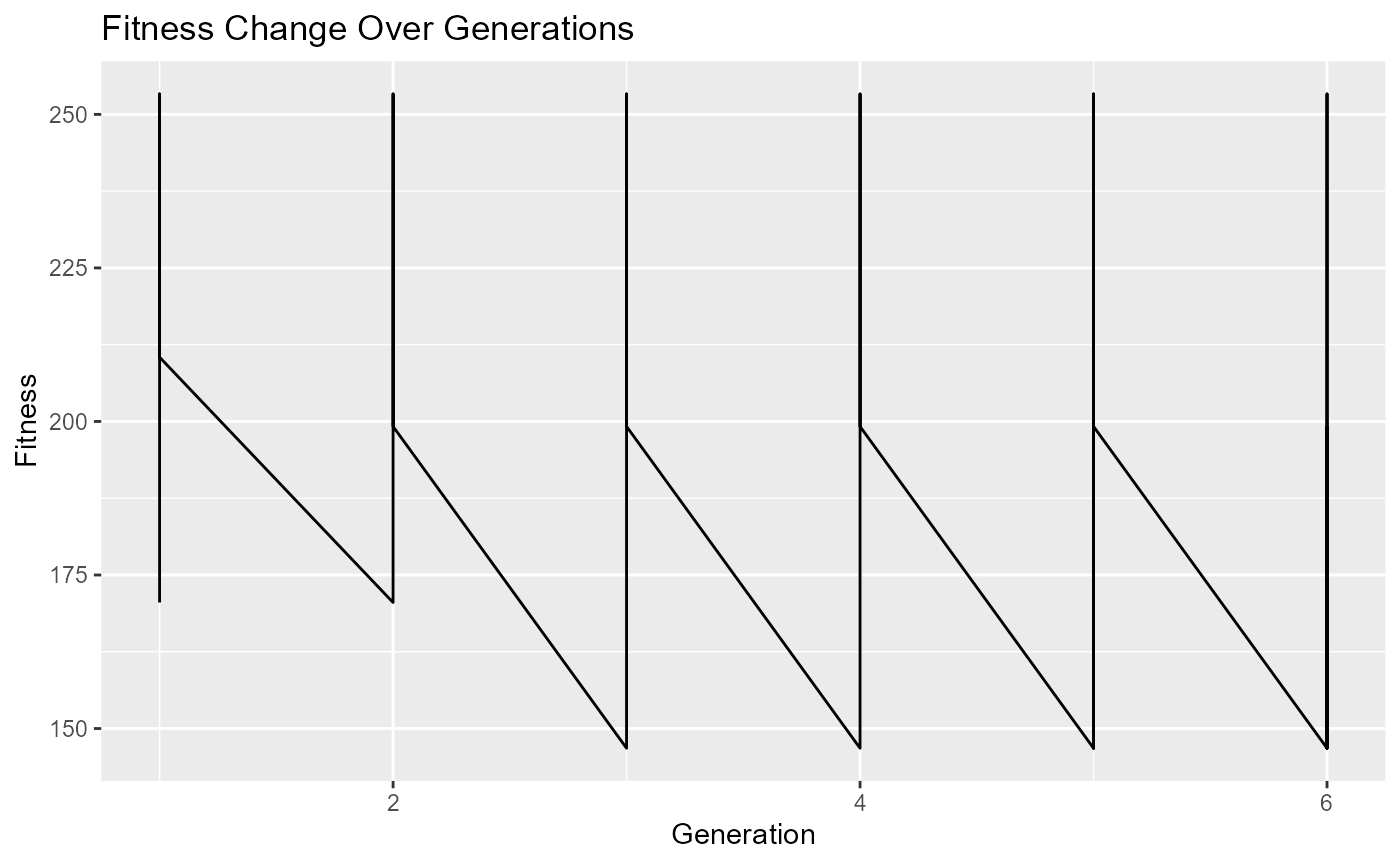
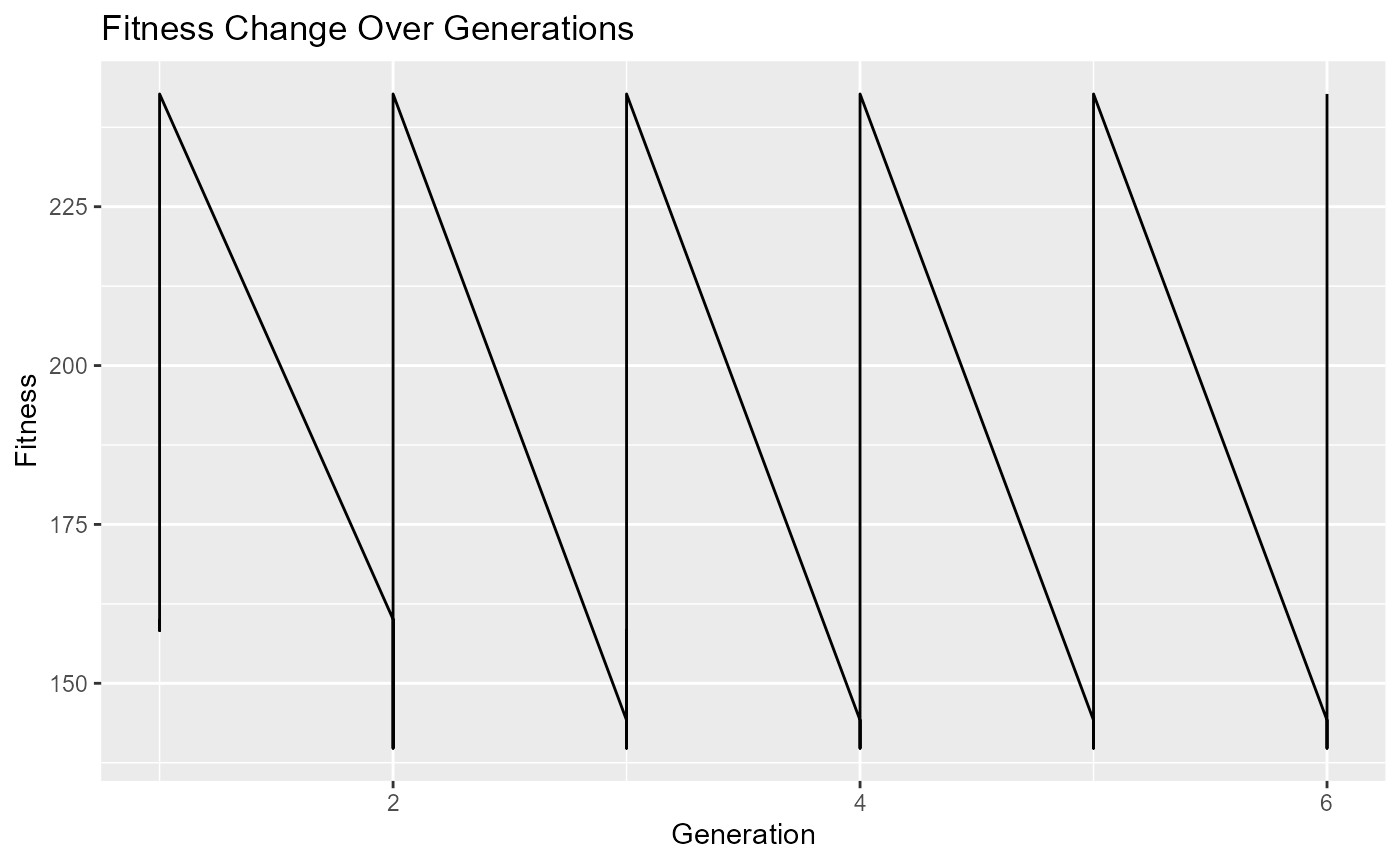
updates

diff --git a/docs/reference/replacement_cpp.html b/docs/reference/replacement_cpp.html
@@ -83,18 +83,18 @@
 <span class="r-in"><span><span class="va">offspring</span> <span class="op">&lt;-</span> <span class="fu">BioGA</span><span class="fu">::</span><span class="fu"><a href="crossover_cpp.html">crossover_cpp</a></span><span class="op">(</span><span class="va">selected_parents</span>, offspring_size <span class="op">=</span> <span class="fl">2</span><span class="op">)</span></span></span>
 <span class="r-in"><span><span class="va">mutated_offspring</span> <span class="op">&lt;-</span> <span class="fu">BioGA</span><span class="fu">::</span><span class="fu"><a href="mutation_cpp.html">mutation_cpp</a></span><span class="op">(</span><span class="va">offspring</span>, mutation_rate <span class="op">=</span> <span class="fl">0</span><span class="op">)</span></span></span>
 <span class="r-in"><span><span class="fu">BioGA</span><span class="fu">::</span><span class="fu">replacement_cpp</span><span class="op">(</span><span class="va">population</span>, <span class="va">mutated_offspring</span>, num_to_replace <span class="op">=</span> <span class="fl">1</span><span class="op">)</span></span></span>
-<span class="r-out co"><span class="r-pr">#&gt;</span>            [,1]        [,2]       [,3]       [,4]       [,5]        [,6]</span>
-<span class="r-out co"><span class="r-pr">#&gt;</span> [1,] -0.6641049  2.65489833 -0.1569172 -0.7740868  0.2591038  0.72399496</span>
-<span class="r-out co"><span class="r-pr">#&gt;</span> [2,] -0.6641049  2.65489833  1.3677067  0.3489767 -0.2166291 -0.03981704</span>
-<span class="r-out co"><span class="r-pr">#&gt;</span> [3,]  1.8134543 -0.08382568  0.2911302  0.5502105 -0.2166291 -0.68371382</span>
-<span class="r-out co"><span class="r-pr">#&gt;</span> [4,] -0.2619656  2.65489833 -0.4473445  0.2703613 -1.2035661 -0.89480241</span>
-<span class="r-out co"><span class="r-pr">#&gt;</span> [5,] -0.2619656  2.65489833 -0.4473445  0.2703613 -1.2035661 -0.89480241</span>
-<span class="r-out co"><span class="r-pr">#&gt;</span>            [,7]       [,8]       [,9]      [,10]</span>
-<span class="r-out co"><span class="r-pr">#&gt;</span> [1,] -0.4447027 -0.6178692 -0.9122598  1.1279266</span>
-<span class="r-out co"><span class="r-pr">#&gt;</span> [2,] -0.4447027  0.3621591  1.6418480  1.1442490</span>
-<span class="r-out co"><span class="r-pr">#&gt;</span> [3,]  0.9042691 -0.3335997  1.6418480  1.0256851</span>
-<span class="r-out co"><span class="r-pr">#&gt;</span> [4,] -0.5816520 -0.1222859  0.2207249 -0.7823792</span>
-<span class="r-out co"><span class="r-pr">#&gt;</span> [5,] -0.5816520 -0.1222859  0.2207249 -0.7823792</span>
+<span class="r-out co"><span class="r-pr">#&gt;</span>             [,1]        [,2]       [,3]       [,4]       [,5]       [,6]</span>
+<span class="r-out co"><span class="r-pr">#&gt;</span> [1,] -0.26196562 -0.26371930 -0.4473445 -0.7740868 -0.1983871 -0.6594035</span>
+<span class="r-out co"><span class="r-pr">#&gt;</span> [2,] -0.62958851 -0.08382568  1.7927561 -2.1692387 -1.3758365 -0.6594035</span>
+<span class="r-out co"><span class="r-pr">#&gt;</span> [3,] -1.23891024  0.66217880  1.3677067 -0.4234901 -0.2166291 -0.6594035</span>
+<span class="r-out co"><span class="r-pr">#&gt;</span> [4,] -0.26196562 -0.26371930 -0.4473445 -0.7740868 -0.1983871 -0.6594035</span>
+<span class="r-out co"><span class="r-pr">#&gt;</span> [5,]  0.06454387 -0.80773497  1.7927561 -0.6274346  0.2591038 -0.2755334</span>
+<span class="r-out co"><span class="r-pr">#&gt;</span>           [,7]       [,8]      [,9]      [,10]</span>
+<span class="r-out co"><span class="r-pr">#&gt;</span> [1,] 0.1056647  0.6064898  1.641848  1.0256851</span>
+<span class="r-out co"><span class="r-pr">#&gt;</span> [2,] 0.6869825 -0.1222859  1.641848 -0.6954311</span>
+<span class="r-out co"><span class="r-pr">#&gt;</span> [3,] 0.1056647  0.6064898 -1.258827  1.3638045</span>
+<span class="r-out co"><span class="r-pr">#&gt;</span> [4,] 0.1056647  0.6064898  1.641848  1.0256851</span>
+<span class="r-out co"><span class="r-pr">#&gt;</span> [5,] 0.9042691 -2.8080105 -1.258827  1.1442490</span>
 </code></pre></div>
     </div>
   </main><aside class="col-md-3"><nav id="toc"><h2>On this page</h2>

diff --git a/docs/reference/initialize_population_cpp.html b/docs/reference/initialize_population_cpp.html
@@ -74,18 +74,18 @@
     <div class="sourceCode"><pre class="sourceCode r"><code><span class="r-in"><span><span class="co"># example of usage</span></span></span>
 <span class="r-in"><span><span class="va">genomic_data</span> <span class="op">&lt;-</span> <span class="fu"><a href="https://rdrr.io/r/base/matrix.html" class="external-link">matrix</a></span><span class="op">(</span><span class="fu"><a href="https://rdrr.io/r/stats/Normal.html" class="external-link">rnorm</a></span><span class="op">(</span><span class="fl">100</span><span class="op">)</span>, nrow <span class="op">=</span> <span class="fl">10</span>, ncol <span class="op">=</span> <span class="fl">10</span><span class="op">)</span></span></span>
 <span class="r-in"><span><span class="fu">BioGA</span><span class="fu">::</span><span class="fu">initialize_population_cpp</span><span class="op">(</span><span class="va">genomic_data</span>, population_size <span class="op">=</span> <span class="fl">5</span><span class="op">)</span></span></span>
-<span class="r-out co"><span class="r-pr">#&gt;</span>             [,1]       [,2]        [,3]       [,4]       [,5]       [,6]</span>
-<span class="r-out co"><span class="r-pr">#&gt;</span> [1,] -0.90281495 -0.5035929  1.10018974 -1.5625184 -2.4466800 -1.5150245</span>
-<span class="r-out co"><span class="r-pr">#&gt;</span> [2,] -0.42938009 -0.2217445  0.78636258 -0.2721537  1.6044073  1.8777439</span>
-<span class="r-out co"><span class="r-pr">#&gt;</span> [3,]  0.23742535  1.3604613  0.04020439  0.1243011 -0.9063402  0.0751059</span>
-<span class="r-out co"><span class="r-pr">#&gt;</span> [4,]  0.06089889 -0.9190516  0.78636258 -1.2705131  0.5421415  1.1298352</span>
-<span class="r-out co"><span class="r-pr">#&gt;</span> [5,]  1.01200185  1.3604613 -0.11786014 -0.7517233  0.5421415  1.3829109</span>
-<span class="r-out co"><span class="r-pr">#&gt;</span>            [,7]        [,8]       [,9]      [,10]</span>
-<span class="r-out co"><span class="r-pr">#&gt;</span> [1,]  0.3404245  0.70971452  1.4154123 -0.3837330</span>
-<span class="r-out co"><span class="r-pr">#&gt;</span> [2,]  1.8933605  0.87677733 -0.1026030 -0.3082114</span>
-<span class="r-out co"><span class="r-pr">#&gt;</span> [3,] -0.8451957  0.87677733  0.4414282  2.1122773</span>
-<span class="r-out co"><span class="r-pr">#&gt;</span> [4,] -1.4160239 -0.07788682  0.6241324 -1.5289587</span>
-<span class="r-out co"><span class="r-pr">#&gt;</span> [5,]  0.2897745  0.87677733 -0.1026030  1.4601102</span>
+<span class="r-out co"><span class="r-pr">#&gt;</span>             [,1]        [,2]      [,3]       [,4]         [,5]       [,6]</span>
+<span class="r-out co"><span class="r-pr">#&gt;</span> [1,]  0.06089889  1.31763370 0.5633801  0.1122948 -0.998432551 -1.5150245</span>
+<span class="r-out co"><span class="r-pr">#&gt;</span> [2,] -1.15339839 -0.50359291 0.7470286 -1.5625184 -0.998432551 -0.6395348</span>
+<span class="r-out co"><span class="r-pr">#&gt;</span> [3,] -0.42938009 -1.43332110 0.7470286 -1.2705131  0.007886198  1.3829109</span>
+<span class="r-out co"><span class="r-pr">#&gt;</span> [4,] -1.15339839 -0.07557425 0.7863626  1.2037678 -0.998432551  1.2333901</span>
+<span class="r-out co"><span class="r-pr">#&gt;</span> [5,] -0.17408637 -2.17757603 0.5633801 -0.7517233 -1.431270777 -1.5150245</span>
+<span class="r-out co"><span class="r-pr">#&gt;</span>           [,7]        [,8]       [,9]      [,10]</span>
+<span class="r-out co"><span class="r-pr">#&gt;</span> [1,] 0.5585144 -0.96812584 -2.0636545 -0.3837330</span>
+<span class="r-out co"><span class="r-pr">#&gt;</span> [2,] 0.5585144 -0.07788682 -2.0636545  0.9412061</span>
+<span class="r-out co"><span class="r-pr">#&gt;</span> [3,] 0.5585144  0.67524470 -0.6048294 -0.3082114</span>
+<span class="r-out co"><span class="r-pr">#&gt;</span> [4,] 2.1587566 -0.96812584 -2.0636545  0.2399596</span>
+<span class="r-out co"><span class="r-pr">#&gt;</span> [5,] 0.2897745  0.87677733 -0.6048294  2.6489320</span>
 </code></pre></div>
     </div>
   </main><aside class="col-md-3"><nav id="toc"><h2>On this page</h2>

diff --git a/docs/articles/Usage.html b/docs/articles/Usage.html
@@ -136,11 +136,11 @@ algorithm optimization process using the BioGA package.</p>
 <span id="cb2-29"><a href="#cb2-29" tabindex="-1"></a>    <span class="fu">cat</span>(<span class="st">"</span><span class="sc">\r</span><span class="st">Generation:"</span>, generation, <span class="st">"- Elapsed Time:"</span>, <span class="fu">format</span>(elapsed_time, <span class="at">units =</span> <span class="st">"secs"</span>), <span class="st">"     "</span>)</span>
 <span id="cb2-30"><a href="#cb2-30" tabindex="-1"></a>}</span>
 <span id="cb2-31"><a href="#cb2-31" tabindex="-1"></a><span class="co">#&gt; </span></span>
-<span id="cb2-32"><a href="#cb2-32" tabindex="-1"></a>Generation<span class="sc">:</span> <span class="dv">1</span> <span class="sc">-</span> Elapsed Time<span class="sc">:</span> <span class="fl">0.05134487</span> secs      </span>
-<span id="cb2-33"><a href="#cb2-33" tabindex="-1"></a>Generation<span class="sc">:</span> <span class="dv">2</span> <span class="sc">-</span> Elapsed Time<span class="sc">:</span> <span class="fl">0.05217791</span> secs      </span>
-<span id="cb2-34"><a href="#cb2-34" tabindex="-1"></a>Generation<span class="sc">:</span> <span class="dv">3</span> <span class="sc">-</span> Elapsed Time<span class="sc">:</span> <span class="fl">0.052315</span> secs      </span>
-<span id="cb2-35"><a href="#cb2-35" tabindex="-1"></a>Generation<span class="sc">:</span> <span class="dv">4</span> <span class="sc">-</span> Elapsed Time<span class="sc">:</span> <span class="fl">0.05241299</span> secs      </span>
-<span id="cb2-36"><a href="#cb2-36" tabindex="-1"></a>Generation<span class="sc">:</span> <span class="dv">5</span> <span class="sc">-</span> Elapsed Time<span class="sc">:</span> <span class="fl">0.05247998</span> secs</span></code></pre></div>
+<span id="cb2-32"><a href="#cb2-32" tabindex="-1"></a>Generation<span class="sc">:</span> <span class="dv">1</span> <span class="sc">-</span> Elapsed Time<span class="sc">:</span> <span class="fl">0.07904005</span> secs      </span>
+<span id="cb2-33"><a href="#cb2-33" tabindex="-1"></a>Generation<span class="sc">:</span> <span class="dv">2</span> <span class="sc">-</span> Elapsed Time<span class="sc">:</span> <span class="fl">0.08000398</span> secs      </span>
+<span id="cb2-34"><a href="#cb2-34" tabindex="-1"></a>Generation<span class="sc">:</span> <span class="dv">3</span> <span class="sc">-</span> Elapsed Time<span class="sc">:</span> <span class="fl">0.08011508</span> secs      </span>
+<span id="cb2-35"><a href="#cb2-35" tabindex="-1"></a>Generation<span class="sc">:</span> <span class="dv">4</span> <span class="sc">-</span> Elapsed Time<span class="sc">:</span> <span class="fl">0.08020687</span> secs      </span>
+<span id="cb2-36"><a href="#cb2-36" tabindex="-1"></a>Generation<span class="sc">:</span> <span class="dv">5</span> <span class="sc">-</span> Elapsed Time<span class="sc">:</span> <span class="fl">0.08031607</span> secs</span></code></pre></div>
 </div>
 <div class="section level3">
 <h3 id="chapter-3-results-visualization">Chapter 3: Results Visualization<a class="anchor" aria-label="anchor" href="#chapter-3-results-visualization"></a>

diff --git a/docs/articles/Overview.html b/docs/articles/Overview.html
@@ -166,11 +166,11 @@ trait.</p>
 <span id="cb4-35"><a href="#cb4-35" tabindex="-1"></a>    <span class="fu">cat</span>(<span class="st">"</span><span class="sc">\r</span><span class="st">Generation:"</span>, generation, <span class="st">"- Elapsed Time:"</span>, <span class="fu">format</span>(elapsed_time, <span class="at">units =</span> <span class="st">"secs"</span>), <span class="st">"     "</span>)</span>
 <span id="cb4-36"><a href="#cb4-36" tabindex="-1"></a>}</span>
 <span id="cb4-37"><a href="#cb4-37" tabindex="-1"></a><span class="co">#&gt; </span></span>
-<span id="cb4-38"><a href="#cb4-38" tabindex="-1"></a>Generation<span class="sc">:</span> <span class="dv">1</span> <span class="sc">-</span> Elapsed Time<span class="sc">:</span> <span class="fl">0.01269579</span> secs      </span>
-<span id="cb4-39"><a href="#cb4-39" tabindex="-1"></a>Generation<span class="sc">:</span> <span class="dv">2</span> <span class="sc">-</span> Elapsed Time<span class="sc">:</span> <span class="fl">0.01339197</span> secs      </span>
-<span id="cb4-40"><a href="#cb4-40" tabindex="-1"></a>Generation<span class="sc">:</span> <span class="dv">3</span> <span class="sc">-</span> Elapsed Time<span class="sc">:</span> <span class="fl">0.01346087</span> secs      </span>
-<span id="cb4-41"><a href="#cb4-41" tabindex="-1"></a>Generation<span class="sc">:</span> <span class="dv">4</span> <span class="sc">-</span> Elapsed Time<span class="sc">:</span> <span class="fl">0.0135119</span> secs      </span>
-<span id="cb4-42"><a href="#cb4-42" tabindex="-1"></a>Generation<span class="sc">:</span> <span class="dv">5</span> <span class="sc">-</span> Elapsed Time<span class="sc">:</span> <span class="fl">0.01355886</span> secs</span></code></pre></div>
+<span id="cb4-38"><a href="#cb4-38" tabindex="-1"></a>Generation<span class="sc">:</span> <span class="dv">1</span> <span class="sc">-</span> Elapsed Time<span class="sc">:</span> <span class="fl">0.01944304</span> secs      </span>
+<span id="cb4-39"><a href="#cb4-39" tabindex="-1"></a>Generation<span class="sc">:</span> <span class="dv">2</span> <span class="sc">-</span> Elapsed Time<span class="sc">:</span> <span class="fl">0.02022004</span> secs      </span>
+<span id="cb4-40"><a href="#cb4-40" tabindex="-1"></a>Generation<span class="sc">:</span> <span class="dv">3</span> <span class="sc">-</span> Elapsed Time<span class="sc">:</span> <span class="fl">0.02032018</span> secs      </span>
+<span id="cb4-41"><a href="#cb4-41" tabindex="-1"></a>Generation<span class="sc">:</span> <span class="dv">4</span> <span class="sc">-</span> Elapsed Time<span class="sc">:</span> <span class="fl">0.02039123</span> secs      </span>
+<span id="cb4-42"><a href="#cb4-42" tabindex="-1"></a>Generation<span class="sc">:</span> <span class="dv">5</span> <span class="sc">-</span> Elapsed Time<span class="sc">:</span> <span class="fl">0.02045512</span> secs</span></code></pre></div>
 <p>The fitness calculation described in the provided code calculates a
 measure of dissimilarity between the gene expression profiles of
 individuals in the population and the genomic data. This measure of

diff --git a/docs/reference/selection_cpp.html b/docs/reference/selection_cpp.html
@@ -80,12 +80,12 @@
 <span class="r-in"><span><span class="va">population</span> <span class="op">&lt;-</span> <span class="fu">BioGA</span><span class="fu">::</span><span class="fu"><a href="initialize_population_cpp.html">initialize_population_cpp</a></span><span class="op">(</span><span class="va">genomic_data</span>, population_size <span class="op">=</span> <span class="fl">5</span><span class="op">)</span></span></span>
 <span class="r-in"><span><span class="va">fitness</span> <span class="op">&lt;-</span> <span class="fu">BioGA</span><span class="fu">::</span><span class="fu"><a href="evaluate_fitness_cpp.html">evaluate_fitness_cpp</a></span><span class="op">(</span><span class="va">genomic_data</span>, <span class="va">population</span><span class="op">)</span></span></span>
 <span class="r-in"><span><span class="fu">BioGA</span><span class="fu">::</span><span class="fu">selection_cpp</span><span class="op">(</span><span class="va">population</span>, <span class="va">fitness</span>, num_parents <span class="op">=</span> <span class="fl">2</span><span class="op">)</span></span></span>
-<span class="r-out co"><span class="r-pr">#&gt;</span>           [,1]       [,2]        [,3]       [,4]       [,5]        [,6]</span>
-<span class="r-out co"><span class="r-pr">#&gt;</span> [1,] -0.174246  0.6289534 -0.05367151  0.7904727  0.8886290  0.01321448</span>
-<span class="r-out co"><span class="r-pr">#&gt;</span> [2,] -1.222451 -1.4047145  0.35201013 -0.7711589 -0.5062863 -1.14890394</span>
-<span class="r-out co"><span class="r-pr">#&gt;</span>            [,7]      [,8]      [,9]     [,10]</span>
-<span class="r-out co"><span class="r-pr">#&gt;</span> [1,]  0.7659068 0.1880015 0.7488509 0.9480316</span>
-<span class="r-out co"><span class="r-pr">#&gt;</span> [2,] -0.5608292 0.1538725 0.6665378 0.7360680</span>
+<span class="r-out co"><span class="r-pr">#&gt;</span>            [,1]        [,2]       [,3]      [,4]       [,5]       [,6]</span>
+<span class="r-out co"><span class="r-pr">#&gt;</span> [1,] -0.7510122 -0.09513491  0.3520101 0.6979863 -0.7439090 -1.1489039</span>
+<span class="r-out co"><span class="r-pr">#&gt;</span> [2,] -1.2224511 -0.16884895 -0.8175683 0.2890896  0.8769131  0.7201865</span>
+<span class="r-out co"><span class="r-pr">#&gt;</span>           [,7]       [,8]      [,9]      [,10]</span>
+<span class="r-out co"><span class="r-pr">#&gt;</span> [1,] 0.2253395 -0.8940268 0.5348033  0.4068052</span>
+<span class="r-out co"><span class="r-pr">#&gt;</span> [2,] 1.3364468 -1.4372467 0.4131548 -0.5149020</span>
 </code></pre></div>
     </div>
   </main><aside class="col-md-3"><nav id="toc"><h2>On this page</h2>

diff --git a/docs/reference/mutation_cpp.html b/docs/reference/mutation_cpp.html
@@ -78,12 +78,12 @@
 <span class="r-in"><span><span class="va">selected_parents</span> <span class="op">&lt;-</span> <span class="fu">BioGA</span><span class="fu">::</span><span class="fu"><a href="selection_cpp.html">selection_cpp</a></span><span class="op">(</span><span class="va">population</span>, <span class="va">fitness</span>, num_parents <span class="op">=</span> <span class="fl">2</span><span class="op">)</span></span></span>
 <span class="r-in"><span><span class="va">offspring</span> <span class="op">&lt;-</span> <span class="fu">BioGA</span><span class="fu">::</span><span class="fu"><a href="crossover_cpp.html">crossover_cpp</a></span><span class="op">(</span><span class="va">selected_parents</span>, offspring_size <span class="op">=</span> <span class="fl">2</span><span class="op">)</span></span></span>
 <span class="r-in"><span><span class="fu">BioGA</span><span class="fu">::</span><span class="fu">mutation_cpp</span><span class="op">(</span><span class="va">offspring</span>, mutation_rate <span class="op">=</span> <span class="fl">0</span><span class="op">)</span></span></span>
-<span class="r-out co"><span class="r-pr">#&gt;</span>          [,1]       [,2]      [,3]        [,4]     [,5]       [,6]      [,7]</span>
-<span class="r-out co"><span class="r-pr">#&gt;</span> [1,] 0.178812 -0.3470885 0.5264580 -0.16928008 0.393344 -0.4004052 0.6161543</span>
-<span class="r-out co"><span class="r-pr">#&gt;</span> [2,] 0.255878  0.3578940 0.8674218 -0.04862719 0.393344 -0.4004052 0.5106277</span>
-<span class="r-out co"><span class="r-pr">#&gt;</span>            [,8]       [,9]      [,10]</span>
-<span class="r-out co"><span class="r-pr">#&gt;</span> [1,] -0.4372812 -0.5514917 -0.3780286</span>
-<span class="r-out co"><span class="r-pr">#&gt;</span> [2,] -0.4541019 -0.3423714  0.1382608</span>
+<span class="r-out co"><span class="r-pr">#&gt;</span>            [,1]       [,2]     [,3]       [,4]       [,5]      [,6]</span>
+<span class="r-out co"><span class="r-pr">#&gt;</span> [1,] -0.5789452  0.3439133 0.559106 -0.1692801 -0.1050687 0.9824534</span>
+<span class="r-out co"><span class="r-pr">#&gt;</span> [2,] -0.5399232 -0.1454269 1.077117 -0.7048197 -0.3385765 0.9824534</span>
+<span class="r-out co"><span class="r-pr">#&gt;</span>              [,7]       [,8]      [,9]      [,10]</span>
+<span class="r-out co"><span class="r-pr">#&gt;</span> [1,] -1.341686068 -0.4372812 -0.203209 -0.3780286</span>
+<span class="r-out co"><span class="r-pr">#&gt;</span> [2,]  0.007586777 -0.2569212 -0.133251 -0.8657535</span>
 </code></pre></div>
     </div>
   </main><aside class="col-md-3"><nav id="toc"><h2>On this page</h2>

diff --git a/docs/reference/crossover_cpp.html b/docs/reference/crossover_cpp.html
@@ -77,12 +77,12 @@
 <span class="r-in"><span><span class="va">fitness</span> <span class="op">&lt;-</span> <span class="fu">BioGA</span><span class="fu">::</span><span class="fu"><a href="evaluate_fitness_cpp.html">evaluate_fitness_cpp</a></span><span class="op">(</span><span class="va">genomic_data</span>, <span class="va">population</span><span class="op">)</span></span></span>
 <span class="r-in"><span><span class="va">selected_parents</span> <span class="op">&lt;-</span> <span class="fu">BioGA</span><span class="fu">::</span><span class="fu"><a href="selection_cpp.html">selection_cpp</a></span><span class="op">(</span><span class="va">population</span>, <span class="va">fitness</span>, num_parents <span class="op">=</span> <span class="fl">2</span><span class="op">)</span></span></span>
 <span class="r-in"><span><span class="fu">BioGA</span><span class="fu">::</span><span class="fu">crossover_cpp</span><span class="op">(</span><span class="va">selected_parents</span>, offspring_size <span class="op">=</span> <span class="fl">2</span><span class="op">)</span></span></span>
-<span class="r-out co"><span class="r-pr">#&gt;</span>            [,1]       [,2]     [,3]       [,4]       [,5]      [,6]       [,7]</span>
-<span class="r-out co"><span class="r-pr">#&gt;</span> [1,] 0.07003485  0.2841503 1.337320 0.23669628 -0.5482573 -0.133997 -0.3543612</span>
-<span class="r-out co"><span class="r-pr">#&gt;</span> [2,] 0.07003485 -0.1774865 1.225636 0.09929669 -0.2181096  1.310710 -0.3543612</span>
-<span class="r-out co"><span class="r-pr">#&gt;</span>          [,8]      [,9]       [,10]</span>
-<span class="r-out co"><span class="r-pr">#&gt;</span> [1,] 2.682557 0.1721817 -0.09032729</span>
-<span class="r-out co"><span class="r-pr">#&gt;</span> [2,] 1.630133 0.3575890 -0.18651637</span>
+<span class="r-out co"><span class="r-pr">#&gt;</span>            [,1]      [,2]      [,3]         [,4]      [,5]       [,6]</span>
+<span class="r-out co"><span class="r-pr">#&gt;</span> [1,] -0.5232744 0.4959666 -1.321675  0.275326521 0.7151657  0.1949564</span>
+<span class="r-out co"><span class="r-pr">#&gt;</span> [2,]  0.4241876 0.6289820 -2.437264 -0.005571287 1.3182934 -0.1339970</span>
+<span class="r-out co"><span class="r-pr">#&gt;</span>            [,7]        [,8]       [,9]       [,10]</span>
+<span class="r-out co"><span class="r-pr">#&gt;</span> [1,] 0.55579435 -0.10414784 -0.2788228 -0.23613920</span>
+<span class="r-out co"><span class="r-pr">#&gt;</span> [2,] 0.04653138 -0.05260191 -0.3134460 -0.09032729</span>
 </code></pre></div>
     </div>
   </main><aside class="col-md-3"><nav id="toc"><h2>On this page</h2>

diff --git a/docs/reference/evaluate_fitness_cpp.html b/docs/reference/evaluate_fitness_cpp.html
@@ -75,7 +75,7 @@
 <span class="r-in"><span><span class="va">genomic_data</span> <span class="op">&lt;-</span> <span class="fu"><a href="https://rdrr.io/r/base/matrix.html" class="external-link">matrix</a></span><span class="op">(</span><span class="fu"><a href="https://rdrr.io/r/stats/Normal.html" class="external-link">rnorm</a></span><span class="op">(</span><span class="fl">100</span><span class="op">)</span>, nrow <span class="op">=</span> <span class="fl">10</span>, ncol <span class="op">=</span> <span class="fl">10</span><span class="op">)</span></span></span>
 <span class="r-in"><span><span class="va">population</span> <span class="op">&lt;-</span> <span class="fu">BioGA</span><span class="fu">::</span><span class="fu"><a href="initialize_population_cpp.html">initialize_population_cpp</a></span><span class="op">(</span><span class="va">genomic_data</span>, population_size <span class="op">=</span> <span class="fl">5</span><span class="op">)</span></span></span>
 <span class="r-in"><span><span class="fu">BioGA</span><span class="fu">::</span><span class="fu">evaluate_fitness_cpp</span><span class="op">(</span><span class="va">genomic_data</span>, <span class="va">population</span><span class="op">)</span></span></span>
-<span class="r-out co"><span class="r-pr">#&gt;</span> [1] 224.0511 220.2482 140.3007 217.2650 162.0020</span>
+<span class="r-out co"><span class="r-pr">#&gt;</span> [1] 130.5949 219.7988 174.1352 231.9419 153.5238</span>
 </code></pre></div>
     </div>
   </main><aside class="col-md-3"><nav id="toc"><h2>On this page</h2>
